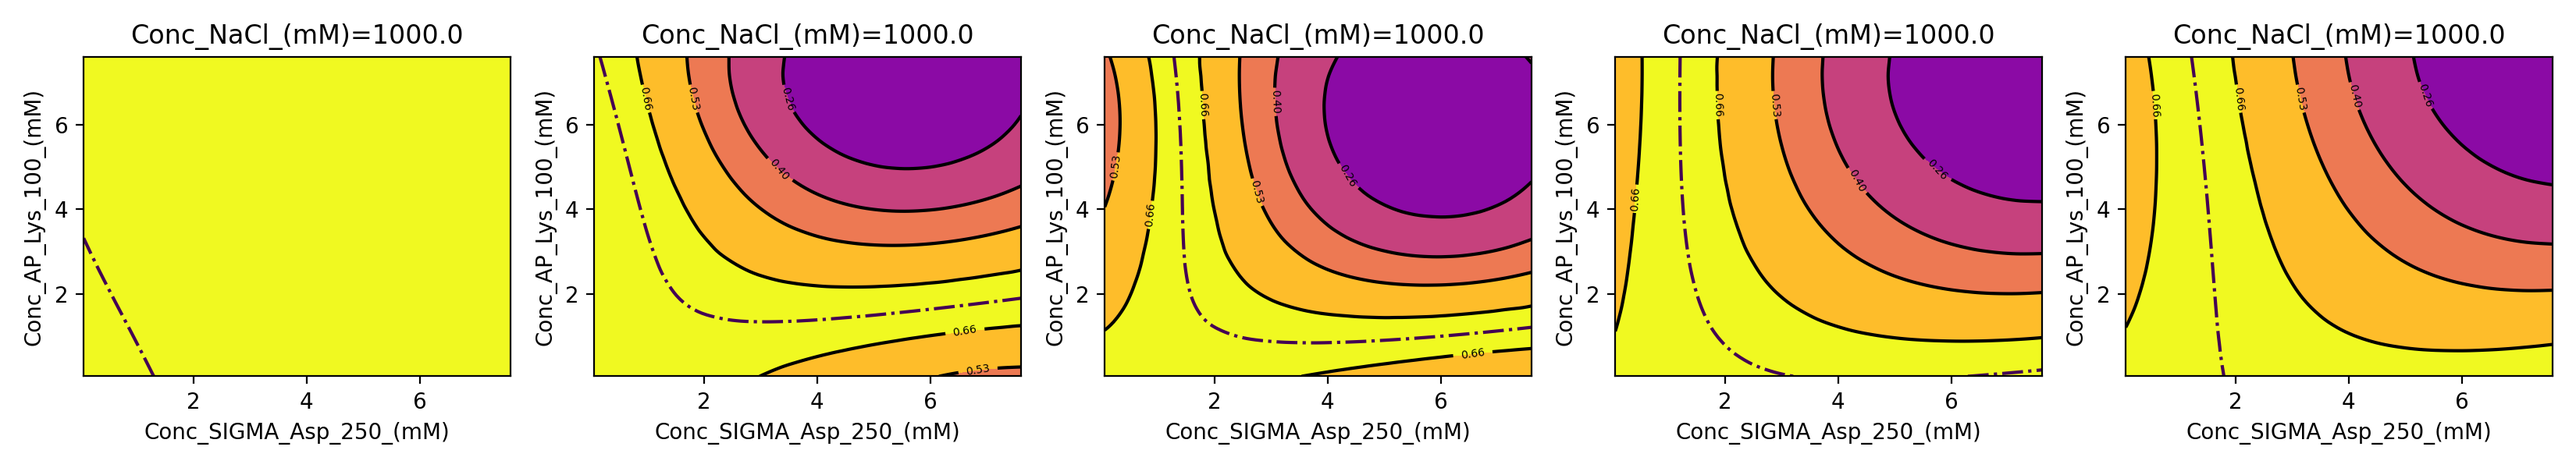
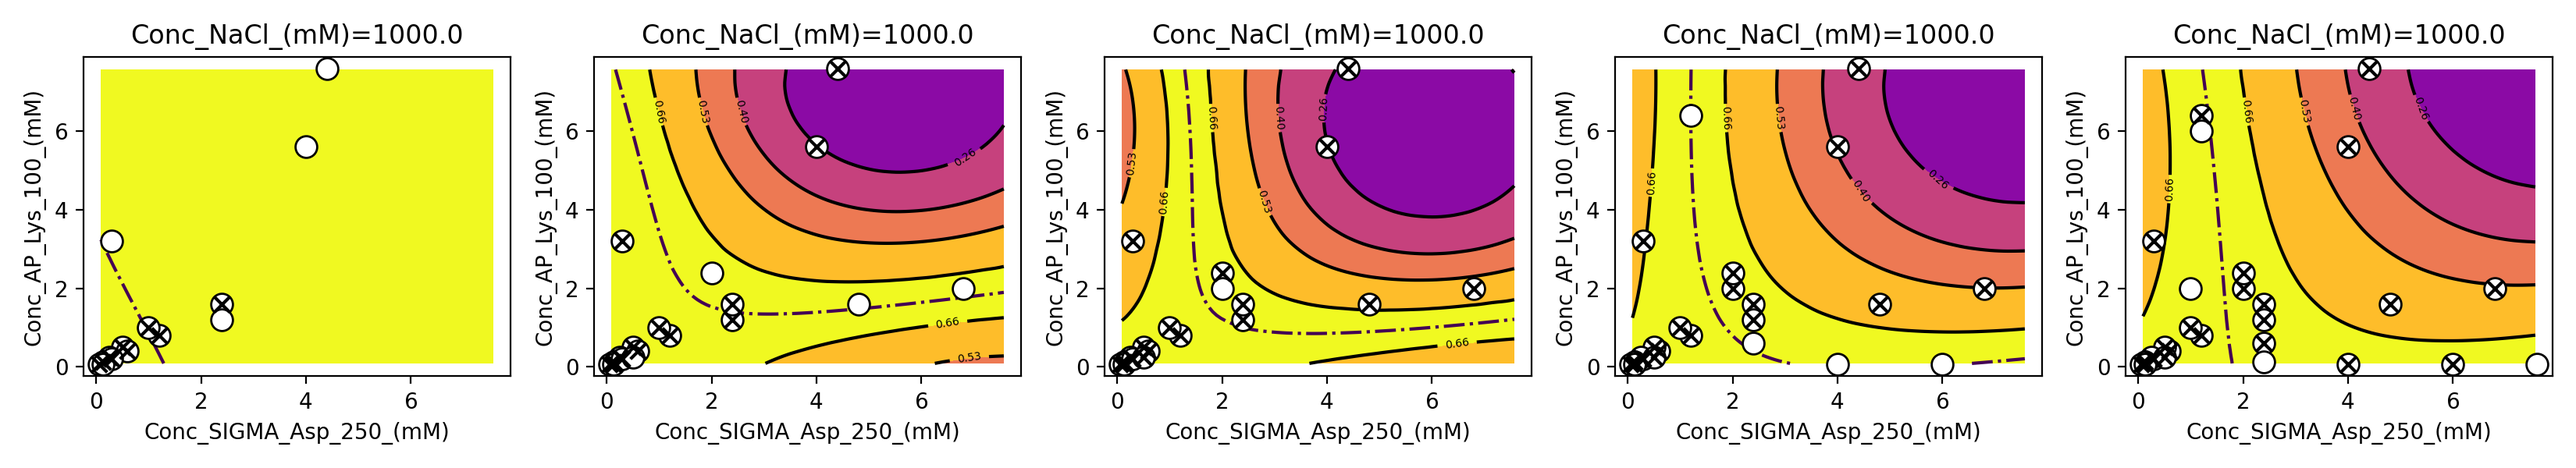
updated output images

diff --git a/robotexperiments/beauty.py b/robotexperiments/beauty.py
@@ -131,37 +131,12 @@ def plot2D_3variable_points(df: pd.DataFrame,
                             var1: str,
                             var2: str,
                             constant_var: Tuple[str,float],
-                            target: str,
+                            screened_points_ndx: List,
+                            new_points_ndx: List,
                             axis: Axes) -> None:
     
-    # get the right 3d variable plane
-    masked_2d_plane_df = df[df[constant_var[0]] == constant_var[1]]
-    # get the screened points from that level
-    masked_screened_ponints_df = masked_2d_plane_df[masked_2d_plane_df[target] != -1]
-
-    # get the phase of the screened points
-    phase = masked_screened_ponints_df[target]
-    # get the index of the screened points
-    index = masked_screened_ponints_df.index.to_numpy()
-
-    # build the 2d plot space
-    X = masked_2d_plane_df[[var1, var2]].to_numpy()
-
-    # plot
-    axis.scatter(*X.T, s=1, c='.5', alpha=.5)
-    axis.scatter(*X[index].T, s=20, c=np.array(COLOURS)[phase], edgecolors='0.')
-    axis.set_xlabel(var1)
-    axis.set_ylabel(var2)
-    axis.set_title(constant_var[0]+f' {constant_var[1]}')
-
-
-def plot2D_3variable_pdf(df: pd.DataFrame,
-                         pdf: np.ndarray,
-                         var1: str,
-                         var2: str,
-                         constant_var: Tuple[str,float],
-                         target: str, 
-                         axis: Axes) -> None:
+    x = df[var1]
+    y = df[var2]
 
     # get the right 3d variable plane
     masked_2d_plane_df = df[df[constant_var[0]] == constant_var[1]]
@@ -173,23 +148,27 @@ def plot2D_3variable_pdf(df: pd.DataFrame,
     X = XX[:,0]
     Y = XX[:,1]
 
-    for phase in range(pdf.shape[1]):
-
-        alphas_phase_tmp = get_alphas(pdf=pdf[:, phase], 
-                                      scale=True, 
-                                      treshold=0.500000001)
+    # show the points
+    # compute the intersection between the screened and the plane indexes
+    intersection_screened = list(set(masked_2d_plane_index) & set(screened_points_ndx))
+    if len(intersection_screened) > 0:
+        axis.scatter(x[intersection_screened], y[intersection_screened], s=100,
+                     c=np.array(COLOURS)[df['Phase'].iloc[intersection_screened]], 
+                     marker='o', edgecolors='0.', zorder=5)
+        # axis.scatter(x[intersection_screened], y[intersection_screened], 
+        #                 s=50,
+        #                 c='0.', marker='x', edgecolors='0.', zorder=6)
         
-        Z = pdf[masked_2d_plane_index, phase]
-
-        # plot
-        axis.scatter(X, Y, c=Z, 
-                     cmap=CMAPS[phase], vmax=1., vmin=0.,
-                     marker='o', s=30,
-                     alpha=alphas_phase_tmp[masked_2d_plane_index])
-
-        axis.set_xlabel(var1)
-        axis.set_ylabel(var2)
-        axis.set_title(constant_var[0]+f' {constant_var[1]}')
+    intersection_newpoints = list(set(masked_2d_plane_index) & set(new_points_ndx))
+    if len(intersection_newpoints) > 0:
+        axis.scatter(x[intersection_newpoints], y[intersection_newpoints], 
+                        s=100,
+                        c='1.', marker='o', edgecolors='0.', zorder=5)
+        
+    axis.scatter(X,Y, s=5, c='.5', alpha=.5, zorder=1)
+    axis.set_xlabel(var1)
+    axis.set_ylabel(var2)
+    axis.set_title(constant_var[0]+f'={constant_var[1]}')
 
 
 def plot2D_3variable_pdfsurface(df: pd.DataFrame,
@@ -209,13 +188,6 @@ def plot2D_3variable_pdfsurface(df: pd.DataFrame,
     masked_2d_plane_df = df[df[constant_var[0]] == constant_var[1]]
     # get the index of the 3d variable plane points
     masked_2d_plane_index = masked_2d_plane_df.index.to_numpy()
-
-    # # get the screened points from that level
-    # masked_screened_ponints_df = masked_2d_plane_df[masked_2d_plane_df[target] != -1]
-    # # get the phase of the screened points
-    # phase = masked_screened_ponints_df[target]
-    # # get the index of the screened points
-    # index = masked_screened_ponints_df.index.to_numpy()
 
     # build the 2d plot space
     XX = masked_2d_plane_df[[var1, var2]].to_numpy()
@@ -272,7 +244,7 @@ def plot2D_3variable_pdfsurface(df: pd.DataFrame,
         
         if phase == 0:
             boundary = axis.contour(grid_x, grid_y, grid_z, 
-                                    levels=[.50], c='.0', linestyles='-.')
+                                    levels=[.50], linestyles='-.')
 
         axis.set_xlabel(var1)
         axis.set_ylabel(var2)
@@ -354,7 +326,7 @@ def plot2D_3variable_entropysurface(df: pd.DataFrame,
 
     contours = axis.contour(grid_x, grid_y, grid_h, 
                             levels=np.linspace(0,MAX_ENTROPY[n_phases]+.1, 7), colors='.0', 
-                            vmin=0., vmax=MAX_ENTROPY[n_phases])
+                            vmin=.0, vmax=MAX_ENTROPY[n_phases])
     axis.clabel(contours, inline=True, fontsize=5, fmt='%1.2f')
 
     contours = axis.contourf(grid_x, grid_y, grid_h, 
@@ -362,7 +334,7 @@ def plot2D_3variable_entropysurface(df: pd.DataFrame,
                             vmin=.0, vmax=MAX_ENTROPY[n_phases])
     
     boundary = axis.contour(grid_x, grid_y, grid_z, 
-                            levels=[.50], c='.0', linestyles='-.')
+                            levels=[.50], linestyles='-.')
 
     axis.set_xlabel(var1)
     axis.set_ylabel(var2)
